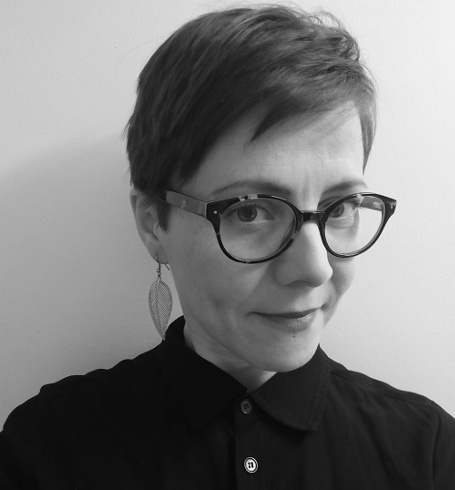
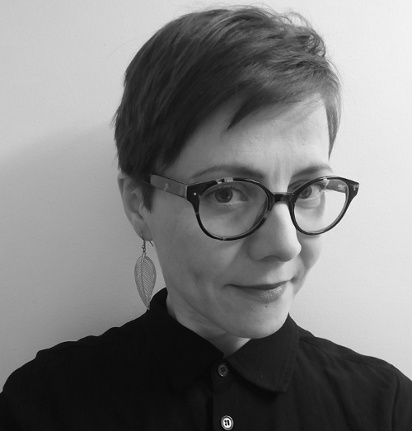
Add media rules and scale image in different sizes

diff --git a/css/style.css b/css/style.css
@@ -46,17 +46,19 @@ a:hover {
     "content content content nav";
 }
 
-.header-text {
+.header {
+  grid-area: header;
   display: grid;
   grid-template-columns: 1fr 1fr 1fr 1fr;
-  grid-template-areas: "image text text text";
+  grid-template-areas:
+    "heading heading heading heading"
+    "image text text text";
 }
 
 .image {
   grid-area: image;
-  /*object-fit: cover;*/
+  width: 150px;
   border-radius: 50%;
-  max-width: 200px;
 }
 
 .text {
@@ -68,8 +70,8 @@ a:hover {
   grid-area: content;
 }
 
-.header {
-  grid-area: header;
+.heading {
+  grid-area: heading;
 }
 
 .navigate {
@@ -154,4 +156,34 @@ a:hover {
 
 .talvi {
   background-image: url("../img/P3130038.JPG");
+}
+
+@media screen and (max-width: 640px) {
+  .container {
+    display: grid;
+    grid-template-columns: 1fr;
+    grid-template-areas:
+      "header"
+      "content";
+  }
+
+  .navigate {
+    display: none;
+  }
+
+  .image {
+    max-width: 150px;
+  }
+}
+
+@media screen and (max-width: 400px) {
+  .header {
+    display: grid;
+    grid-template-columns: 1fr 1fr 1fr;
+    grid-template-areas:
+      "heading heading heading"
+      "....... image   ......."
+      "text text text";
+    align-items: center;
+  }
 }

diff --git a/homepage.html b/homepage.html
@@ -11,14 +11,14 @@
     <div class="container">
       <header class="text-box header">
         <h1 class="heading">Hello world, I'm Heidi.</h1>
-        <div class="header-text">
+        <!-- <div class="header-text"> -->
           <img class="image" src="img/omakuva.jpg"/>
           <div class="text">
             <h3>It is my second year at University of Tampere where I study for a Master's degree in Computer Science.
               At the moment I'm looking for a trainee/job position for summer 2018. I'm also interested in continuing to work part-time
               after the summer.</h3>
           </div>
-        </div>
+        <!-- </div> -->
       </header>
       <main class="content">
         <hr>
